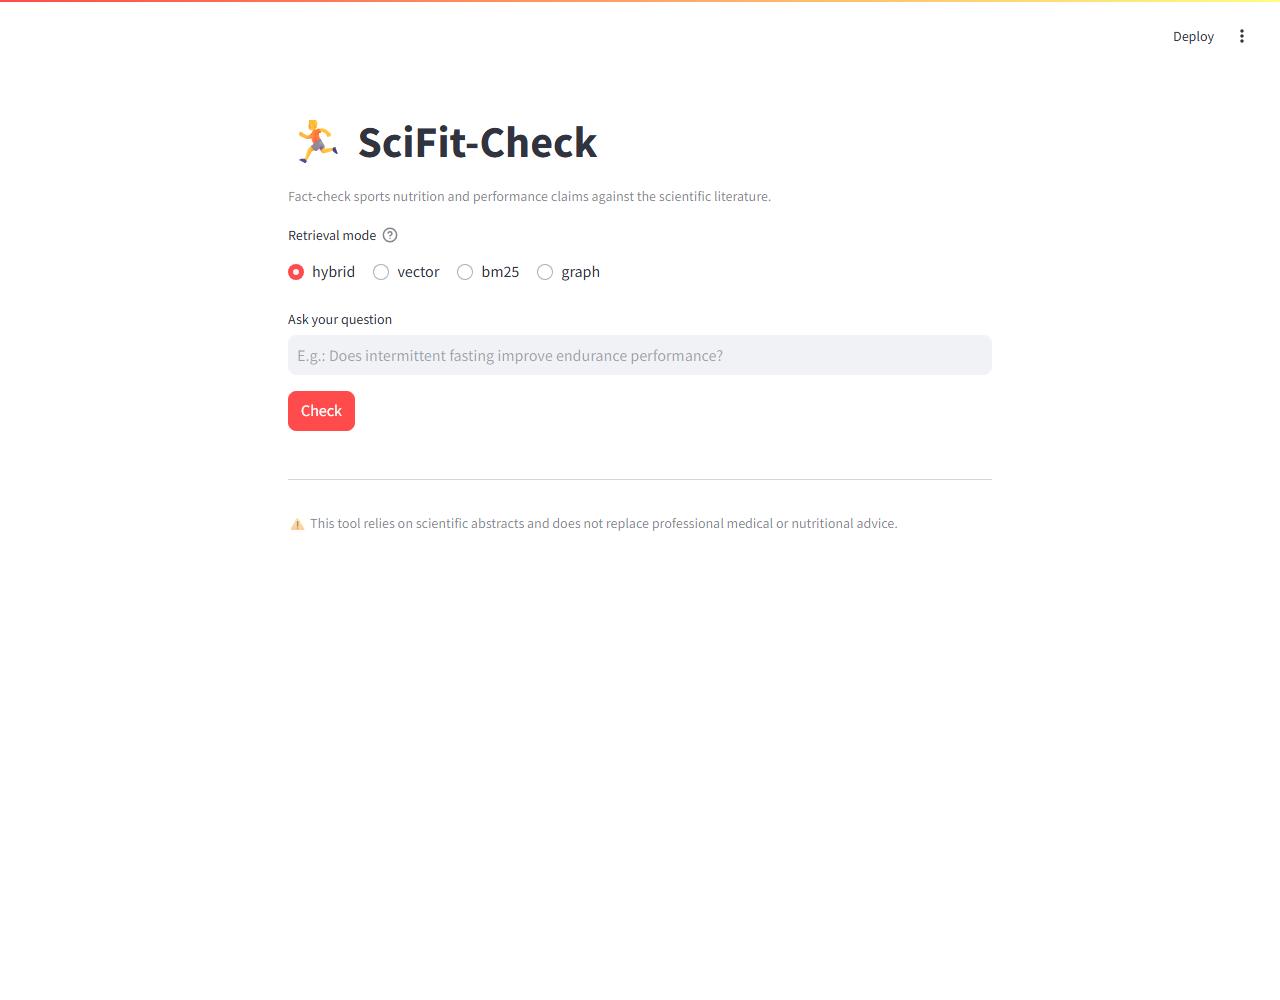
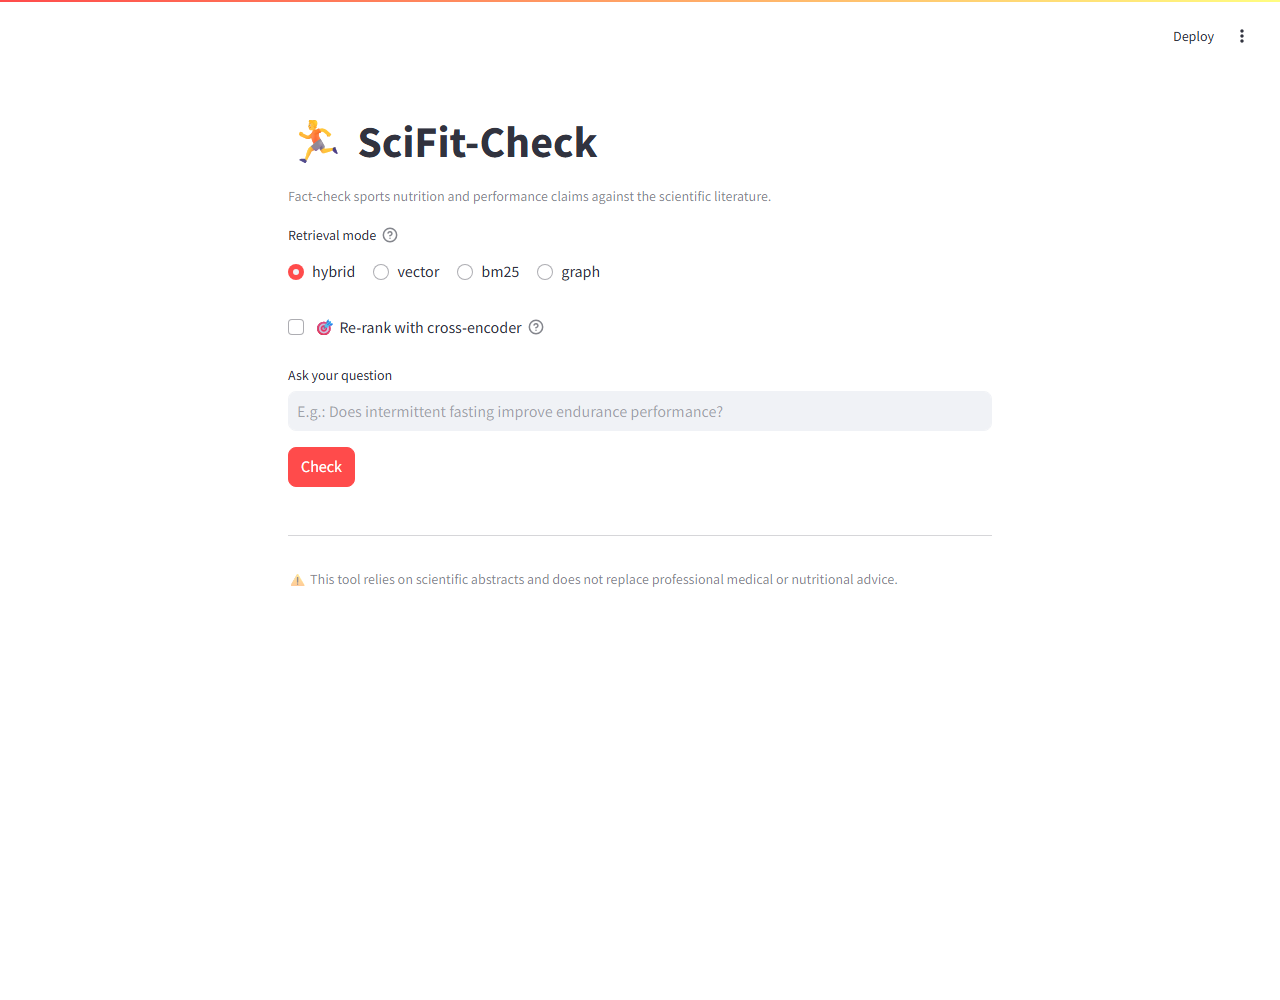
Update monitoring docs and screenshots with rerank + resilience data
- 01_home.png: shows the new "Re-rank with cross-encoder" checkbox
  (unchecked by default)
- 03_grafana_dashboard.png: "Average latency by stage" now has 4 bars
  including rerank (~1.3s -- roughly doubles total latency when on,
  a second independent reason it defaults off, alongside the recall
  regression already documented)
- docs/monitoring.md: updated stats from the latest seed run (450/561
  papers never retrieved, 19.4% decline rate, 61.3% well-formatted,
  3.13% real error rate from a reproduced Qdrant timeout), documents
  the 4th bug found (retrieval-side exceptions weren't caught, only
  generation-side ones were -- fixed in both app.py and
  seed_feedback_demo.py)

Changed region(s): [[0.2188, 0.31, 0.5938, 0.527], [0.2188, 0.558, 0.6875, 0.589], [0.625, 0.496, 0.6875, 0.527]]

diff --git a/docs/monitoring.md b/docs/monitoring.md
@@ -50,16 +50,24 @@ which feeds a large share of the corpus.
 
 | Panel | Type | Shows |
 |---|---|---|
-| Average latency by stage (ms) | barchart | embedding / search / generation, averaged separately |
+| Average latency by stage (ms) | barchart | embedding / search / rerank / generation, averaged separately (rerank only counted over requests that had it on) |
 | Error rate (%) | stat | % of requests where the pipeline raised an exception |
 | Avg tokens per request (in/out) | barchart | Groq `prompt_tokens` / `completion_tokens`, direct proxy for $ cost per request |
 
-**Real finding, not a hypothesis**: generation (~7.4s) dominates
-end-to-end latency by roughly two orders of magnitude over embedding
-(~50ms) and search (~25ms) combined — visible directly on the chart, where
-the embedding/search bars are barely tall enough to show a value. If
-latency ever needs optimizing, the LLM call is where the budget is, not
-the retrieval side.
+**Real finding, not a hypothesis**: generation dominates end-to-end
+latency over embedding+search combined by roughly an order of magnitude
+(embedding ~50ms, search ~250ms, generation ~1.3s in the current sample —
+the exact numbers move around with Groq load, but the gap is consistent).
+If latency ever needs optimizing, the LLM call is where the budget is,
+not the retrieval side.
+
+**Re-ranking's real cost, measured, not just estimated**: when enabled,
+the cross-encoder pass (~1.3s) roughly **doubles** total latency — it's
+in the same ballpark as generation itself, not a cheap add-on. Combined
+with the recall@8 regression on `hybrid` documented in
+[docs/evaluation.md](evaluation.md#re-ranking-measured-not-assumed), this
+is the second, independent reason (latency, not just accuracy) the UI
+checkbox defaults to off.
 
 ### Row 4 — generation quality & corpus freshness
 
@@ -70,13 +78,13 @@ the retrieval side.
 | "No relevant source" rate (%) | stat | How often the model correctly declines instead of hallucinating |
 | Well-formatted answer rate (%) | stat | % with both a citation and an evidence-level line |
 
-On the current (small, synthetic 32-request) seed: avg year **2016**,
-**307/561 papers never retrieved**, decline rate **21.9%**, well-formatted
-rate **53.1%**. That well-formatted number is a genuine, slightly
+On the current (small, synthetic ~32-request) seed: avg year **2016**,
+**450/561 papers never retrieved**, decline rate **19.4%**, well-formatted
+rate **61.3%**. That well-formatted number is a genuine, slightly
 uncomfortable finding: even with an explicit prompt instruction, the model
-skips the citation or the evidence-level line in roughly half of answers
-in this sample — worth watching as real usage accumulates, not just
-assumed to be near-100% because the prompt asks for it.
+skips the citation or the evidence-level line in a meaningful chunk of
+answers — worth watching as real usage accumulates, not just assumed to
+be near-100% because the prompt asks for it.
 
 ### Row 5 — retrieval quality
 
@@ -141,9 +149,17 @@ Two ways:
    formatting failure — both checks now live once in
    `src/llm/answer.py`, shared by the app and the seed script instead of
    duplicated.
+4. **A Qdrant `ReadTimeout` crashed the entire seed run**, losing every
+   result already collected, because only the LLM generation call was
+   wrapped in `try/except` — the retrieval step (Qdrant/BM25/reranker)
+   wasn't. This is now the **3.13% error rate** visible on the dashboard
+   in the screenshot above: a real, reproduced timeout, caught and logged
+   instead of crashing the second time it happened. Fixed by wrapping the
+   retrieval step too, in both `streamlit_app/app.py` and
+   `seed_feedback_demo.py`.
 
-None of these three were visible from reading the code or the JSON —
-all three only surfaced once real data existed and the dashboard was
+None of these four were visible from reading the code or the JSON — all
+four only surfaced once real data existed and the dashboard was
 actually opened in a browser.
 
 ## What's missing to go further
